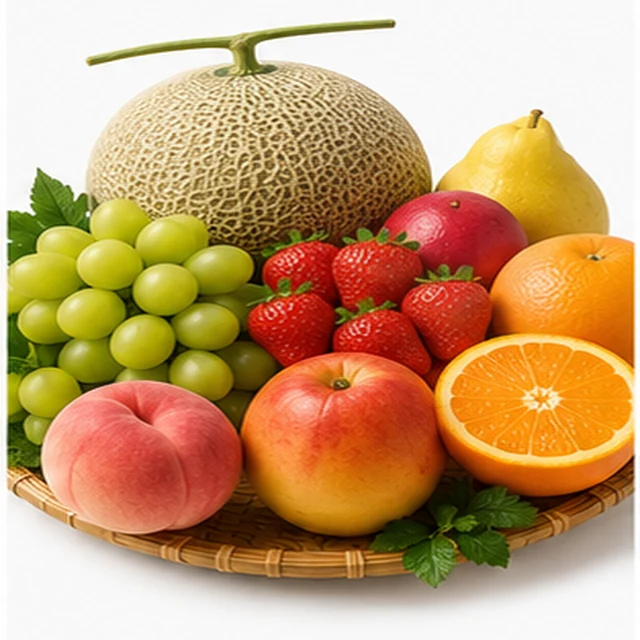
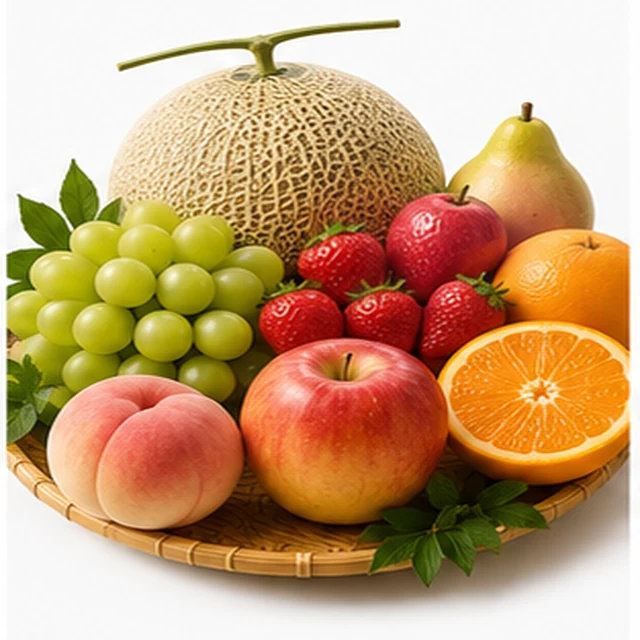
Fotos das categorias sem marcas, versao generica

diff --git a/furusato-nozei.html b/furusato-nozei.html
@@ -966,7 +966,7 @@
         <li class="fu-cat">
           <a href="https://www.amazon.co.jp/fmc/furusato" target="_blank" rel="sponsored nofollow noopener">
             <span class="fu-cat-img">
-              <img src="img/cat-carnes.webp?v=3" alt="Cortes de wagyu e outras carnes — presentes de furusato nozei" width="640" height="640" loading="lazy" decoding="async">
+              <img src="img/cat-carnes.webp?v=4" alt="Cortes de wagyu e outras carnes — presentes de furusato nozei" width="640" height="640" loading="lazy" decoding="async">
             </span>
             <span class="fu-cat-txt">
               <b>Carnes</b>
@@ -979,7 +979,7 @@
         <li class="fu-cat">
           <a href="https://www.amazon.co.jp/fmc/furusato" target="_blank" rel="sponsored nofollow noopener">
             <span class="fu-cat-img">
-              <img src="img/cat-frutos-do-mar.webp?v=3" alt="Caranguejo, salmão e frutos do mar — presentes de furusato nozei" width="640" height="640" loading="lazy" decoding="async">
+              <img src="img/cat-frutos-do-mar.webp?v=4" alt="Caranguejo, salmão e frutos do mar — presentes de furusato nozei" width="640" height="640" loading="lazy" decoding="async">
             </span>
             <span class="fu-cat-txt">
               <b>Frutos do mar</b>
@@ -992,7 +992,7 @@
         <li class="fu-cat">
           <a href="https://www.amazon.co.jp/fmc/furusato" target="_blank" rel="sponsored nofollow noopener">
             <span class="fu-cat-img">
-              <img src="img/cat-frutas.webp?v=3" alt="Melão, morangos e uvas do Japão — presentes de furusato nozei" width="640" height="640" loading="lazy" decoding="async">
+              <img src="img/cat-frutas.webp?v=4" alt="Melão, morangos e uvas do Japão — presentes de furusato nozei" width="640" height="640" loading="lazy" decoding="async">
             </span>
             <span class="fu-cat-txt">
               <b>Frutas</b>
@@ -1005,7 +1005,7 @@
         <li class="fu-cat">
           <a href="https://www.amazon.co.jp/fmc/furusato" target="_blank" rel="sponsored nofollow noopener">
             <span class="fu-cat-img">
-              <img src="img/cat-arroz.webp?v=3" alt="Arroz japonês em caixa de madeira — presentes de furusato nozei" width="640" height="640" loading="lazy" decoding="async">
+              <img src="img/cat-arroz.webp?v=4" alt="Arroz japonês em caixa de madeira — presentes de furusato nozei" width="640" height="640" loading="lazy" decoding="async">
             </span>
             <span class="fu-cat-txt">
               <b>Arroz</b>
@@ -1018,7 +1018,7 @@
         <li class="fu-cat">
           <a href="https://www.amazon.co.jp/fmc/furusato" target="_blank" rel="sponsored nofollow noopener">
             <span class="fu-cat-img">
-              <img src="img/cat-bebidas.webp?v=3" alt="Garrafas de saquê e cerveja — presentes de furusato nozei" width="640" height="640" loading="lazy" decoding="async">
+              <img src="img/cat-bebidas.webp?v=4" alt="Garrafas de saquê e cerveja — presentes de furusato nozei" width="640" height="640" loading="lazy" decoding="async">
             </span>
             <span class="fu-cat-txt">
               <b>Bebidas</b>
@@ -1031,7 +1031,7 @@
         <li class="fu-cat">
           <a href="https://www.amazon.co.jp/fmc/furusato" target="_blank" rel="sponsored nofollow noopener">
             <span class="fu-cat-img">
-              <img src="img/cat-casa.webp?v=3" alt="Panela vermelha e cafeteira — presentes de furusato nozei" width="640" height="640" loading="lazy" decoding="async">
+              <img src="img/cat-casa.webp?v=4" alt="Panela vermelha e cafeteira — presentes de furusato nozei" width="640" height="640" loading="lazy" decoding="async">
             </span>
             <span class="fu-cat-txt">
               <b>Casa e eletro</b>
@@ -1044,7 +1044,7 @@
         <li class="fu-cat">
           <a href="https://www.amazon.co.jp/fmc/furusato" target="_blank" rel="sponsored nofollow noopener">
             <span class="fu-cat-img">
-              <img src="img/cat-itens-dia-a-dia.webp?v=3" alt="Toalhas e itens de uso doméstico — presentes de furusato nozei" width="640" height="640" loading="lazy" decoding="async">
+              <img src="img/cat-itens-dia-a-dia.webp?v=4" alt="Toalhas e itens de uso doméstico — presentes de furusato nozei" width="640" height="640" loading="lazy" decoding="async">
             </span>
             <span class="fu-cat-txt">
               <b>Itens do dia a dia</b>
@@ -1057,7 +1057,7 @@
         <li class="fu-cat">
           <a href="https://www.amazon.co.jp/fmc/furusato" target="_blank" rel="sponsored nofollow noopener">
             <span class="fu-cat-img">
-              <img src="img/cat-cosmeticos.webp?v=3" alt="Frascos de creme e cosméticos — presentes de furusato nozei" width="640" height="640" loading="lazy" decoding="async">
+              <img src="img/cat-cosmeticos.webp?v=4" alt="Frascos de creme e cosméticos — presentes de furusato nozei" width="640" height="640" loading="lazy" decoding="async">
             </span>
             <span class="fu-cat-txt">
               <b>Cosméticos</b>
